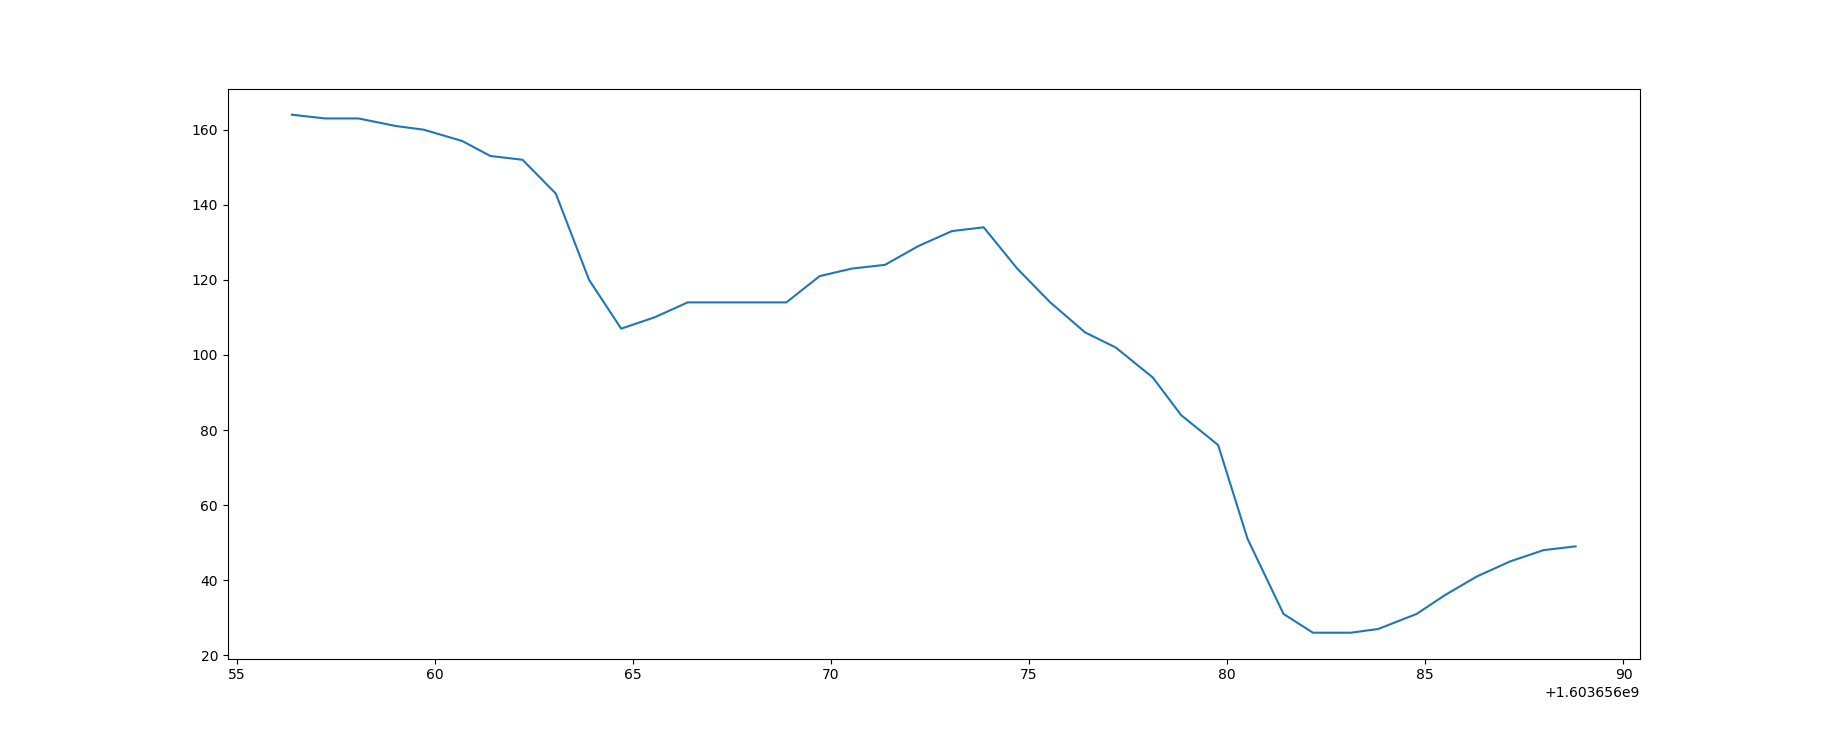
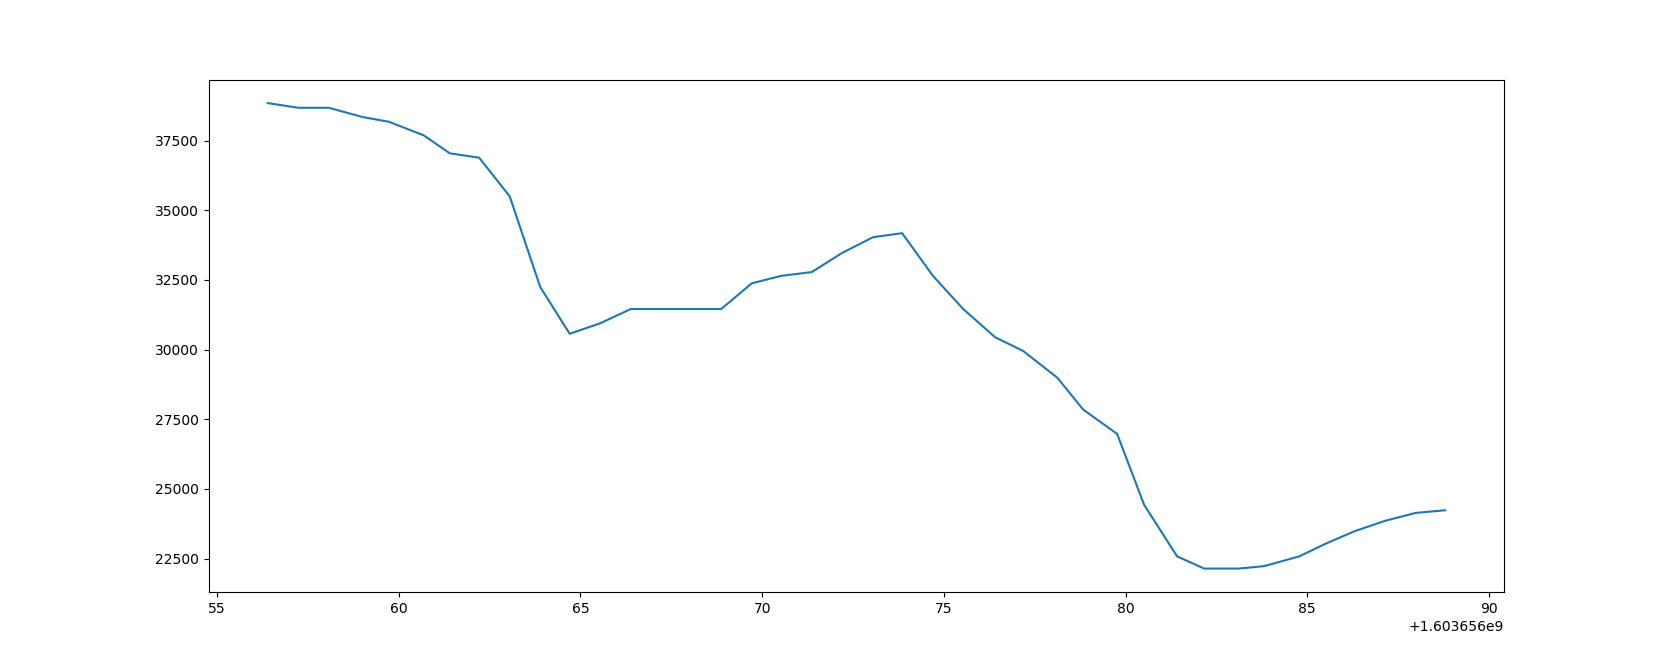
correct human resistance

diff --git a/plot.py b/plot.py
@@ -4,11 +4,13 @@ import matplotlib.pyplot as plt
 datafile=np.loadtxt("data/data199/Arduinovalues.txt",delimiter=',',skiprows=1)
 x=datafile[:,0]
 y=datafile[:,1]
-y2=datafile[:,2]
 
+ynew=[]
 
+for i in y:
+    ynew.append(((1024+2*i)*10000)/(512-i))
 
-plt.plot(x,y2)
+plt.plot(x,ynew)
 
 
 plt.show()
